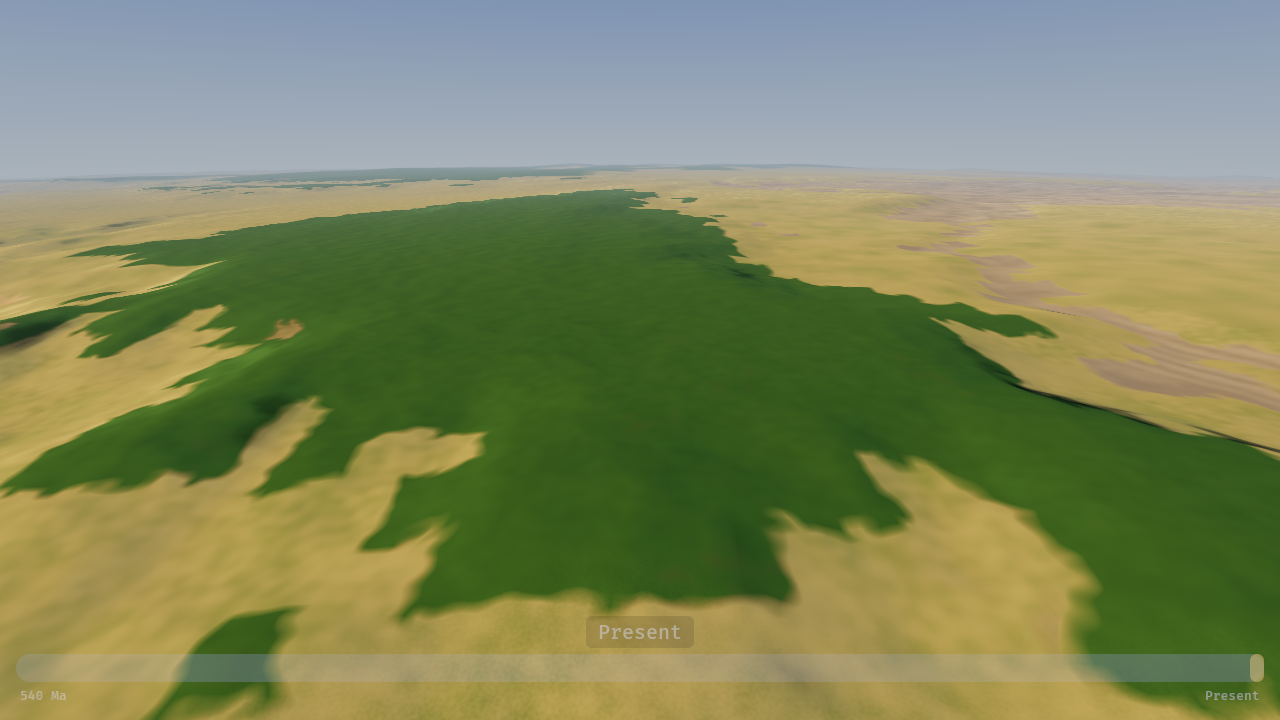
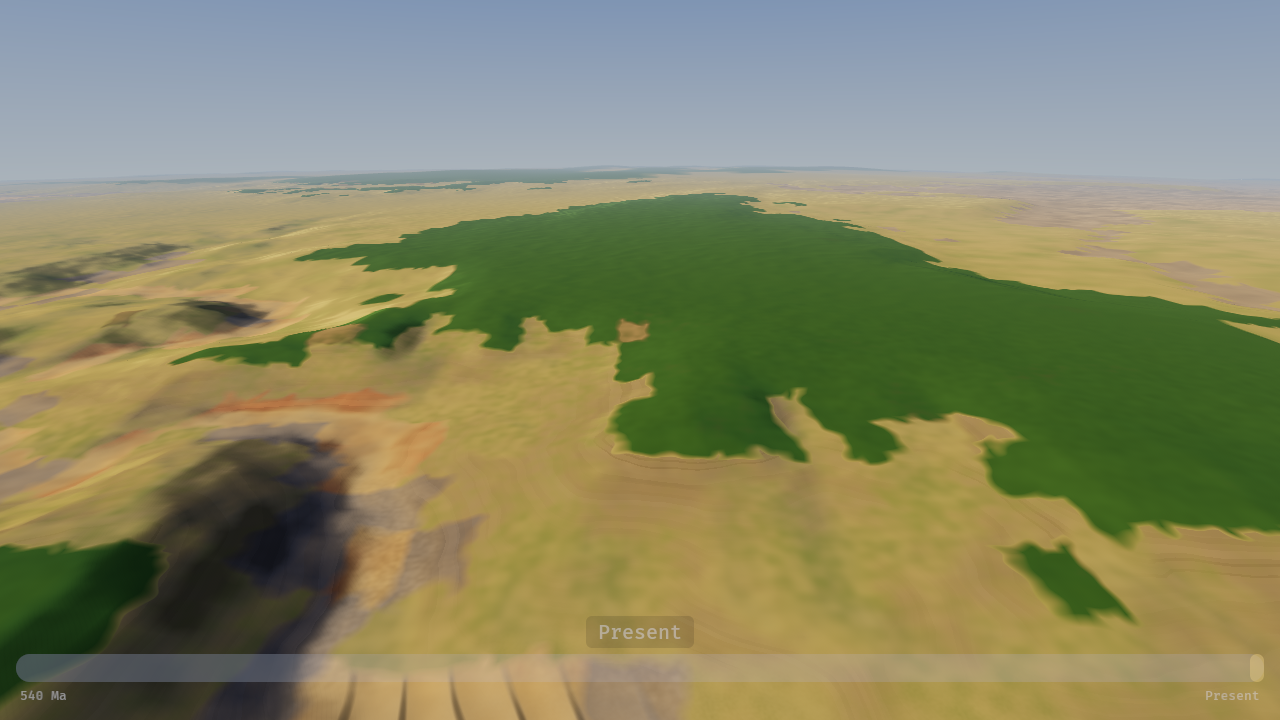
fix: rock banding reaches the Grand Canyon, no recolour where faded, snow keeps its edge
- Slope-scaled weight on dry bare ground (exposure >= 0.8): smoothstep 0.06..0.2 replaces the
  15 degree gate (the data softens walls to 0.08-0.25). Cliff term unchanged.
- Weight multiplies the strata's visibility, so ground too far to show bands keeps its colour.
- Band block moved above the snow mix (snow code unchanged); canopy mask is a true zero.
- Grand Canyon showcase re-framed to 36.08, -112.25 (south rim, looking north across the gorge).

Real bake, 0 ka, desert land texels with band weight > 0.1: Grand Canyon 49.8 % within 15 km,
9.0 % within 150 km; Sahara (23, 10) 0.00 % within 15 km, 0.13 % within 150 km. Flat plains
(slope < 0.05) get exactly zero (asserted). Land slope > 0.06 within 15 km of the old centre: 74 %.

diff --git a/crates/timefly_core/tests/real_bake_region.rs b/crates/timefly_core/tests/real_bake_region.rs
@@ -766,14 +766,8 @@ fn dry_snowline_on_the_real_bake() {
     }
 }
 
-/// The Grand Canyon (36.1 N, -112.1 E at 0 ka): how much relief the ETOPO-sourced inner field
-/// carries near the centre, for the rock-banding art pass (slope thresholds 0.27 = 15 degrees,
-/// where moderate-slope strata begin, and 0.6 = 31 degrees, the cliff rock test). Prints the
-/// height range within 15 km and the share of land texels above each slope; asserts only that the
-/// field generated.
-#[test]
-#[ignore = "reads the real bake; run in release"]
-fn grand_canyon_relief() {
+/// The inner field at `lat, lon` and 0 ka over the real bake (the Task 7 rock-banding probes).
+fn inner_field_at(lat: f64, lon: f64) -> timefly_core::worldgen::generate::Field {
     let globe = data().join("globe");
     let b = bake(&globe);
     let age = 0.0;
@@ -782,7 +776,7 @@ fn grand_canyon_relief() {
         grids[i] = Some(read_tfgrid(&fs::read(globe.join(&b.files[i])).unwrap()).unwrap());
     }
     let overview = read_tfgrid(&fs::read(data().join("tiles/overview.tfgrid")).unwrap()).unwrap();
-    let centre = geo_to_render(latlon_to_geo(36.1, -112.1));
+    let centre = geo_to_render(latlon_to_geo(lat, lon));
     let frame = RegionFrame { center: centre };
     let mut tiles = TileSet::new();
     tiles.set_overview(overview).unwrap();
@@ -804,14 +798,40 @@ fn grand_canyon_relief() {
         seed: 0x7F1E_0002,
         ..RegionSpec::new(centre, YearsBp::from_myr(age), 0)
     };
-    let grid = RegionGenerator::new(spec, &field).finish();
-    let f = &grid.inner;
+    RegionGenerator::new(spec, &field).finish().inner
+}
+
+/// The shader's band ramp on dry bare ground (`terrain.wesl`: smoothstep from `BAND_MIN_SLOPE`
+/// to `BAND_FULL_SLOPE`, exposure 1 for deserts); constants mirror `material.rs`.
+fn band_weight(slope: f32) -> f32 {
+    let t = ((slope - 0.06) / (0.2 - 0.06)).clamp(0.0, 1.0);
+    t * t * (3.0 - 2.0 * t)
+}
+
+/// Central-difference slope (rise over run) at an interior texel.
+fn texel_slope(f: &timefly_core::worldgen::generate::Field, r: usize, c: usize) -> f32 {
     let n = f.res as usize;
     let h = |r: usize, c: usize| f.elevation_m[r * n + c];
     let step = f.spacing_m() as f32;
+    let gx = (h(r, c + 1) - h(r, c - 1)) / (2.0 * step);
+    let gz = (h(r + 1, c) - h(r - 1, c)) / (2.0 * step);
+    gx.hypot(gz)
+}
+
+/// The Grand Canyon (36.1 N, -112.1 E at 0 ka): how much relief the ETOPO-sourced inner field
+/// carries near the centre, for the rock-banding art pass. Prints the height range within 15 km
+/// and the share of land texels above slope 0.06 (bands begin), 0.27 and 0.6; asserts only that
+/// the field generated.
+#[test]
+#[ignore = "reads the real bake; run in release"]
+fn grand_canyon_relief() {
+    let f = inner_field_at(36.1, -112.1);
+    let n = f.res as usize;
+    let h = |r: usize, c: usize| f.elevation_m[r * n + c];
+    let step = f.spacing_m();
     for radius in [15_000.0_f64, 150_000.0] {
         let (mut lo, mut hi) = (f32::MAX, f32::MIN);
-        let (mut land, mut over_015, mut over_06) = (0usize, 0usize, 0usize);
+        let (mut land, mut over) = (0usize, [0usize; 3]);
         for r in 1..n - 1 {
             for c in 1..n - 1 {
                 let (x, z) = f.local_of(r as u32, c as u32);
@@ -823,24 +843,107 @@ fn grand_canyon_relief() {
                 if h(r, c) <= 0.0 {
                     continue;
                 }
-                let gx = (h(r, c + 1) - h(r, c - 1)) / (2.0 * step);
-                let gz = (h(r + 1, c) - h(r - 1, c)) / (2.0 * step);
-                let slope = gx.hypot(gz);
+                let slope = texel_slope(&f, r, c);
                 land += 1;
-                over_015 += usize::from(slope > 0.27);
-                over_06 += usize::from(slope > 0.6);
+                for (k, t) in [0.06, 0.27, 0.6].iter().enumerate() {
+                    over[k] += usize::from(slope > *t);
+                }
             }
         }
         let pct = |k: usize| 100.0 * k as f64 / land.max(1) as f64;
         println!(
-            "grand canyon within {:.0} km (inner texel {:.0} m): height {lo:.0} .. {hi:.0} m \
-             (range {:.0} m); land texels {land}; slope > 0.27: {:.2} %; slope > 0.6: {:.2} %",
+            "grand canyon within {:.0} km (texel {step:.0} m): height {lo:.0} .. {hi:.0} m \
+             (range {:.0} m); land {land}; slope > 0.06: {:.2} %; > 0.27: {:.2} %; > 0.6: {:.2} %",
             radius / 1000.0,
-            step,
             hi - lo,
-            pct(over_015),
-            pct(over_06)
+            pct(over[0]),
+            pct(over[1]),
+            pct(over[2])
         );
     }
     assert!(!f.elevation_m.is_empty());
+}
+
+/// The share of hot/cold-desert land texels whose band weight exceeds 0.1, over the Grand
+/// Canyon and the Sahara (23 N, 10 E) at 0 ka, within 15 km and 150 km of the centre. Flat plains
+/// (slope < 0.05) must get zero weight.
+#[test]
+#[ignore = "reads the real bake; run in release"]
+fn desert_band_share() {
+    for (name, lat, lon) in [("grand canyon", 36.1, -112.1), ("sahara", 23.0, 10.0)] {
+        let f = inner_field_at(lat, lon);
+        let n = f.res as usize;
+        for radius in [15_000.0_f64, 150_000.0] {
+            let (mut desert, mut banded, mut flat) = (0usize, 0usize, 0usize);
+            for r in 1..n - 1 {
+                for c in 1..n - 1 {
+                    let (x, z) = f.local_of(r as u32, c as u32);
+                    let biome = f.surface[r * n + c][0];
+                    if x.hypot(z) > radius
+                        || f.elevation_m[r * n + c] <= 0.0
+                        || !(biome == 2 || biome == 3)
+                    {
+                        continue;
+                    }
+                    let slope = texel_slope(&f, r, c);
+                    let w = band_weight(slope);
+                    desert += 1;
+                    banded += usize::from(w > 0.1);
+                    if slope < 0.05 {
+                        flat += 1;
+                        assert_eq!(w, 0.0, "a flat plain (slope {slope}) got band weight");
+                    }
+                }
+            }
+            println!(
+                "{name} within {:.0} km: desert land {desert}; band weight > 0.1: {:.2} %; \
+                 flat (< 0.05) {:.1} %",
+                radius / 1000.0,
+                100.0 * banded as f64 / desert.max(1) as f64,
+                100.0 * flat as f64 / desert.max(1) as f64
+            );
+        }
+    }
+}
+
+/// A coarse map of the Grand Canyon's inner field (1.5 km cells, 40 km square, north up) for
+/// choosing the showcase camera: elevation in hundreds of metres (digit, capped at 9 above
+/// 3,000 m... printed as `h/400` clipped) and `#` where the mean band weight of the cell > 0.5.
+#[test]
+#[ignore = "reads the real bake; run in release"]
+fn grand_canyon_map() {
+    let f = inner_field_at(36.1, -112.1);
+    let n = f.res as usize;
+    let cell = 5usize; // texels
+    let half = 20_000.0;
+    println!("x: -20..20 km east, rows north to south; digit = elevation/400 m, # = banded cell");
+    let mut r0 = 1usize;
+    while r0 + cell < n {
+        let (_, z) = f.local_of(r0 as u32, 0);
+        if z.abs() <= half {
+            let mut line = String::new();
+            let mut c0 = 1usize;
+            while c0 + cell < n {
+                let (x, _) = f.local_of(0, c0 as u32);
+                if x.abs() <= half {
+                    let (mut sum, mut w, mut cnt) = (0.0, 0.0, 0.0);
+                    for r in r0..r0 + cell {
+                        for c in c0..c0 + cell {
+                            sum += f.elevation_m[r * n + c];
+                            w += band_weight(texel_slope(&f, r, c));
+                            cnt += 1.0;
+                        }
+                    }
+                    line.push(if w / cnt > 0.5 {
+                        '#'
+                    } else {
+                        char::from_digit(((sum / cnt) / 400.0).clamp(0.0, 9.0) as u32, 10).unwrap()
+                    });
+                }
+                c0 += cell;
+            }
+            println!("z {:6.1} km {line}", z / 1000.0);
+        }
+        r0 += cell;
+    }
 }

diff --git a/crates/timefly/src/terrain/material.rs b/crates/timefly/src/terrain/material.rs
@@ -104,9 +104,14 @@ pub const SAND_SEA_SCALE_M: f32 = 40_000.0;
 pub const BAND_SCALE_M: f32 = 35.0;
 /// The amplitude (m) of the km-scale noise that warps the strata, so layers dip and fold.
 pub const BAND_WARP_M: f32 = 40.0;
-/// The slope (rise over run, 15 degrees) from which dry, bare ground shows strata on moderate
-/// slopes (the shader ramps over this +-0.05).
-pub const BAND_MIN_SLOPE: f32 = 0.27;
+/// The slope (rise over run, about 3.4 degrees) from which dry, bare ground (rock exposure
+/// of at least 0.8) starts to show strata. The weight ramps up to full at [`BAND_FULL_SLOPE`], so steeper
+/// ground reads stronger and there is no visible gate edge. The ETOPO source softens canyon walls
+/// to slopes of 0.08-0.25, so a 15 degree gate would miss the Grand Canyon.
+pub const BAND_MIN_SLOPE: f32 = 0.06;
+/// The slope at which that ramp reaches full weight. Mirrored as `BAND_FULL_SLOPE` in
+/// `terrain.wesl`.
+pub const BAND_FULL_SLOPE: f32 = 0.2;
 
 /// The painterly look's uniform (`TerrainLook` in `terrain.wesl`).
 #[derive(ShaderType, Copy, Clone, Debug, PartialEq, Reflect)]
@@ -552,11 +557,13 @@ mod tests {
     fn band_constants() {
         assert_eq!(BAND_SCALE_M, 35.0);
         assert_eq!(BAND_WARP_M, 40.0);
-        assert_eq!(BAND_MIN_SLOPE, 0.27);
+        assert_eq!(BAND_MIN_SLOPE, 0.06);
+        assert_eq!(BAND_FULL_SLOPE, 0.2);
+        assert!(TERRAIN_WESL.contains("const BAND_FULL_SLOPE: f32 = 0.2;"));
         let look = TerrainLook::default();
         assert_eq!(look.patterns.y, 35.0);
         assert_eq!(look.patterns.z, 40.0);
-        assert_eq!(look.patterns.w, 0.27);
+        assert_eq!(look.patterns.w, 0.06);
     }
 
     #[test]
